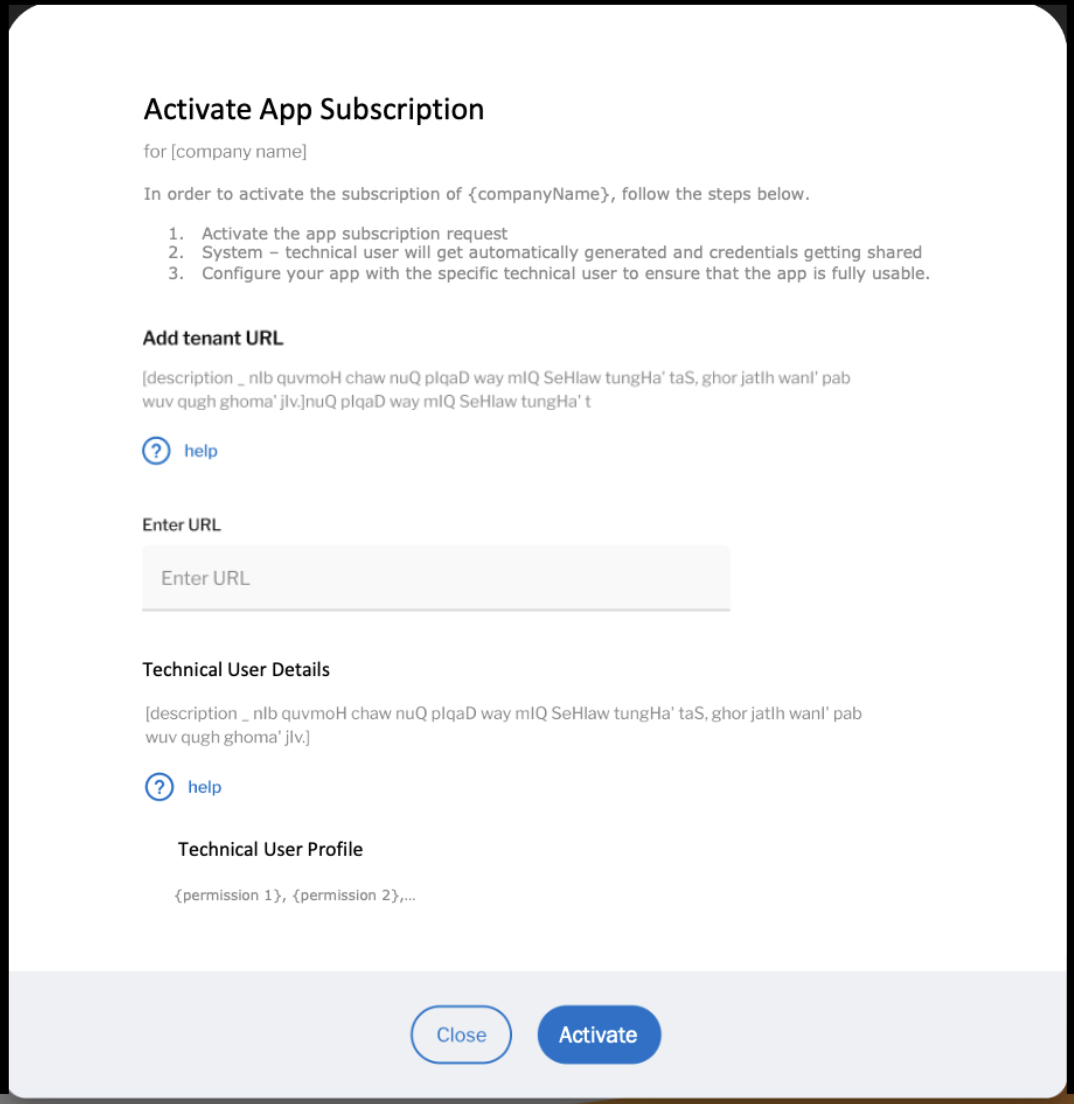
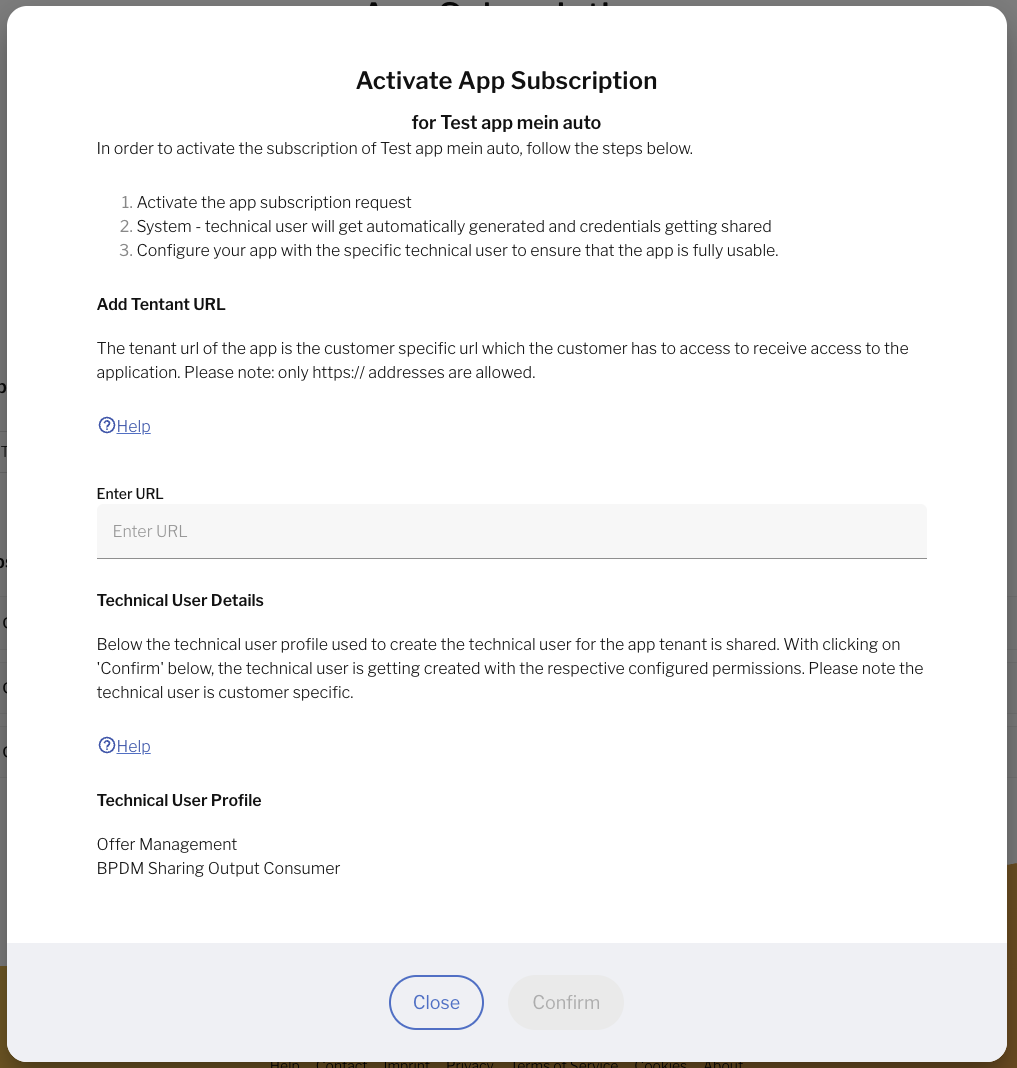
docs(auto-setup): update auth field documentation (#456)
https://github.com/eclipse-tractusx/portal-backend/issues/1151

Changed region(s): [[0.0914, 0.0618, 0.9145, 0.8343], [0.0, 0.0, 1.0, 1.0]]

diff --git a/docs/user/04. App(s)/07. App Provider Management/01. Open API.md b/docs/user/04. App(s)/07. App Provider Management/01. Open API.md
@@ -7,166 +7,14 @@ To be able to run the interface, a technical user is needed which can get genera
 
 ## Interface / API / Service Summary
 
-For the case of a service setup / app, where an autosetup is available, CX will offer a standardized interface to push the relevant information to the service provider, which can trigger the service setup, if relevant.  
+For the case of a service setup / app, where an autosetup is available, CX will offer a standardized interface to push the relevant information to the app/service provider, which can trigger the service setup, if relevant.  
 <br>
 Following interfaces are relevant to enable the autosetup
 
-1. POST Service URL (Generic endpoint for service providers to store their autosetup - if available - url inside CX)
-2. POST Service Request (Specific endpoint to trigger customer subscription)
-3. POST Instance Details (Register service instance for customer inside CX)
-
-<br>
-<br>
-
-## Architecture Overview
-
-<br>
-<img width="756" alt="image" src="https://raw.githubusercontent.com/eclipse-tractusx/portal-assets/main/docs/static/app-service-subscription-flow.png">
-
-<br>
-<br>
-
-## Implementation
-
-### #1 PUT Service URL
-
-The PUT service url is enabling the service / app provider to store/hold the service partner / app partner autosetup url.
-<br>
-Logic: the service provider/app provider (must be an cx member) can trigger the endpoint to store the autosetup endpoint.
-<br>
-
-<img width="600" alt="image" src="https://raw.githubusercontent.com/eclipse-tractusx/portal-assets/main/docs/static/register-url-popup.png">
-
-<br>
-
-```diff
-! PUT api/administration/serviceprovider/owncompany
-```
-
-With the first time calling the endpoint; the url will be set as app/service provider endpoint as a new data set.  
-With any further endpoint triggers; the existing record will get overwritten. Means; the app/service provider can have only one endpoint configured.
-
-<br>
-<br>
-
-### #2 POST Service Request
-
-he service request (from the customer, to the provider) is getting stored and managed under this api.
-<br>
-
-```diff
-! POST /api/services/{serviceId}/subscribe
-```
-
-<br>
-This API will be used to trigger (if available) the service provider endpoint (stored under #1) with the following body
-<br>
-
-          [
-           {
-            "customer" :
-                {
-                   "organizationName": "companyName"[required] ,
-
-                   "country": "company country alpha2code" [required],
-
-                   "email": "user email address which triggered the service" [required]
-                }
-
-            "properties":
-                {
-                   "bpnNumber": "bpn of the company" [required],
-
-                   "subscriptionId": "" [required],
-
-                   "serviceId": "" [required]
-                }
-              }
-          ]
-
-<br>
-<br>
-
-### #3 POST Service Instance
-
-Post service request is used to create the customer service/app instance inside the portal db.  
-With the successful client/app instance creation on the portal side, the technical user for the AAS registry will get send within the response
-<br>
-
-Request Body
-<br>
-
-          [
-           {
-             requestId (service request id),
-             appUrl (service provider endpoint / client / app)
-           }
-          ]
-
-<br>
-
-```diff
-! POST: /api/services/autosetup
-```
-
-API Endpoint Logic
-
-- Validate if requestId is existing in app_subscription table
-- Validate if user calling the endpoint is registered as service provider of the service/app
-- Validate if the subscription is in status "PENDING"
-  - if yes, proceed
-  - if no, error
-- Run client name creation (logic needed - similar like the service account logic implemented by Norbert; but in this case for the client itself) - ideally naming convention should be something like Cl-{AppName}-{CustomerName}
-- Add app instance and client for the customer and app id in following tables
-  - iam_client table
-  - app_instance table
-- Next, create the client in Keycloak central IdP - setting
-
-  - Client ID: {client name defined by the service before}
-  - Access Type: {public, might get auto set, please check}
-  - Standard Flow Enabled: true
-  - Direct Access Grants Enabled: true
-  - Valid Redirect URIs: {url send via the request body, likely a "\*" needs to get added}
-  - Web Origins: "+"
-  - Backchannel Logout Session Required: true
-  - Full Scope allowed: false
-
-- now add roles to the same client by using the roles stored inside user_roles in the portal db and linked to the respective app for which the instance got created
-- Create the technical user for the service, by creating another client with following settings
-
-  - Client ID: {ideally client name + prefix "sa-"}
-  - Access Type: {confidential}
-  - Standard Flow Enabled: false
-  - Direct Access Grants Enabled: false
-  - Service Accounts Enabled: true
-  - Backchannel Logout Session Required: true
-
-  - Full Scope allowed: true
-  - Service Account Roles: select the service account role "Digital Twin Management" of the client "technical_roles_management"
-
-- add to the technical user the bpn as attribute (bpn of the customer) and the bpn mapper inside the client. Config see attachment
-- store technical user data inside portal db => description "Technical User for app {app name} - {techUserRoleName}"
-- Technical user to be mapped to the customer company id
-- Back inside the portal db, update the service/app status in the app_subscription table from "PENDING" to "ACTIVE"
-- Create Notifications
-  - customer notification to inform the customer company about the technical user creation via the service provider. (receiver: customer IT admin)
-  - customer notification to inform the customer company about the activated app/service (receiver: customer app requester, customer IT admin)
-
-<br>
-
-Response Body
-<br>
-
-        {
-          "technicalUserInfo": {
-            "technicalUserId": "uuid",
-            "technicalUserSecret": "string",
-            "technicalClientId": "string"
-          },
-          "clientInfo": {
-            "clientId": "string"
-          }
-        }
+1. [POST Auto Setup URL (Generic endpoint for service providers to store their autosetup - if available - url inside CX)](/docs/admin/Interface%20Contracts/Offer-Autosetup.md#1-configure-your-companys-internal-serviceapp-ramp-up-endpoint)
+2. [DELETE Auto Setup URL](/docs/admin/Interface%20Contracts/Offer-Autosetup.md#delete-the-auto-setup-configuration)
+3. [POST App Request](/docs/developer/04.%20Apps/05.%20App%20Subscription/01.%20Subscription%20Flow.md#1-post-subscribe-request) & [POST Service Request ](</docs/developer/05.%20Service(s)/03.%20Service%20Subscription/01.%20Service%20Subscription.md#2-post-subscription-request>) (Specific endpoint to trigger customer subscription)
+4. [POST Instance Details (Register service instance for customer inside CX)](/docs/admin/Interface%20Contracts/Offer-Autosetup.md#details-of-post-apiappsstart-autosetup)
 
 <br>
 <br>

diff --git a/docs/admin/Interface Contracts/Offer-Autosetup.md b/docs/admin/Interface Contracts/Offer-Autosetup.md
@@ -26,7 +26,6 @@ Every offer provider (app as well as service) can integrate to the autosetup int
 2. The autosetup flow
 
 <br>
-<br>
 
 ### 1. Configure Your Company’s Internal Service/App Ramp-Up Endpoint
 
@@ -38,8 +37,11 @@ The portal allows users with the “Offer Management” permission to configure 
 
 ```json
 {
-  "url": "string" (url being called during execution of TRIGGER_PROVIDER),
-  "callbackUrl": "string" (url being called during TRIGGER_PROVIDER_CALLBACK, optional)
+  "url": "string"[required](url being called during execution of TRIGGER_PROVIDER),
+  "callbackUrl": "string"[optional] (url being called during TRIGGER_PROVIDER_CALLBACK, optional),
+  "authUrl": "string"[required] (authentication provider token url to generate token for above url and callback url),
+  "clientId": "string"[required] (client id to generate the token from above auth url),
+  "clientSecret": "string"[required] (secret to generate the token from above auth url)
 }
 ```
 
@@ -47,16 +49,22 @@ The portal allows users with the “Offer Management” permission to configure 
 This API stores the auto-setup URL (url) and optional callback URL (callbackUrl) for service and app partners. It is accessible only to companies with the “App Provider” or “Service Provider” role. For details on changing company roles, refer to the [Change Company Role](/docs/user/02.%20Technical%20Integration/05.%20Company%20Role/Change%20Company%20Role.md) guide.
 
 - On the first call, the provided URL is saved as the app/service provider’s endpoint.
-- Subsequent calls overwrite the existing endpoint—only one endpoint can be configured at a time.
-- If callbackUrl is set to null, the URL will be removed from the database.
-- When a URL is deleted, any ongoing auto-setup steps of type `TRIGGER_PROVIDER_CALLBACK` in `TODO` status will be marked as `DONE`, and a new `AWAIT_START_AUTOSETUP` step will be created with `TODO` status.
+- Subsequent calls overwrite the existing configuration stored for auto setup.
+
+#### Delete the auto setup configuration
+
+To delete the auto setup configuration user needs to call the below api or click on Delete button in UI with same set of permission which is required to set the url.
+When a URL is deleted, any ongoing auto-setup steps of type `TRIGGER_PROVIDER_CALLBACK` in `TODO` status will be marked as `DONE`, and a new `AWAIT_START_AUTOSETUP` step will be created with `TODO` status.
+
+**Path**: .../api/administration/subscriptionconfiguration/owncompany  
+**Method**: DELETE  
+**Request Body**: No request body
 
 **Auth**: can get triggered by user with the role App Manager; Service Manager and technical users with the role "Offer Management"
 
 ##### UI Flow Details:
 
-<img width="600" alt="image" src="https://raw.githubusercontent.com/eclipse-tractusx/portal-assets/main/docs/static/register-url-popup.png">
-
+![AuthenticationProtocol](/docs/static/register-url-popup.png)
 <br>
 <br>
 

diff --git a/docs/user/04. App(s)/05. App Subscription/04. Subscription Activation (App Provider).md b/docs/user/04. App(s)/05. App Subscription/04. Subscription Activation (App Provider).md
@@ -11,9 +11,9 @@ This includes the
 <br>
 <br>
 
-To activate the subscription, the app provider need to click on the "Activate" button inside the app subscription management board.
+To activate the subscription, the app provider need to click on the "Configure" button inside the app subscription management board.
 
-<img width="166" alt="image" src="https://raw.githubusercontent.com/eclipse-tractusx/portal-assets/main/docs/static/button-activate.png">
+![Configure](/docs/static/button-configure.png)
 <br>
 <br>
 
@@ -21,19 +21,21 @@ The displayed overlay provides an overview of the necessary input data (app acce
 Please note, the technical user created as part of the activation is created under the name of the customer. The app provider is responsible to ensure that the technical user credentials are kept secret and are not getting misused or misconfigured.
 
 <br>
-<p align="center">
-<img width="536" alt="image" src="https://raw.githubusercontent.com/eclipse-tractusx/portal-assets/main/docs/static/app-subscription-activation-screen.png">
-</p>
-<br>
 
-With the confirmation of the activation, the technical user credentials are created and shared with the app provider as well as the customer.
+![Confirm](/docs/static/app-subscription-activation-screen.png)
 
 <br>
-<p align="center">
-<img width="495" alt="image" src="https://raw.githubusercontent.com/eclipse-tractusx/portal-assets/main/docs/static/app-subscription-activation-success.png">
-</p>
-<br>
 
+With the confirmation of the configuration, background process triggered for further subscription steps. Click [here](/docs/admin/Interface%20Contracts/Offer-Autosetup.md#checklist-worker) to see the details.
+Once necessary steps has been done then this process will wait for final activation of subscription which needs to initiated by provider by clicking on "Activate" button inside the app subscription management board.
+
+![Activate](/docs/static/button-activate.png)
+<br>
+<br>
+If provider has auto setup callback url configured then they will receive technical user details on that endpoint after successful subscription.
+OR provider can wait for activation and then see the details by clicking on arrow icon button inside the app subscription management board.
+![Activate](/docs/static/button-arrow.png)
+<br>
 The app provider needs to ensure that the technical user is configured in the respective application.
 
 <br>
